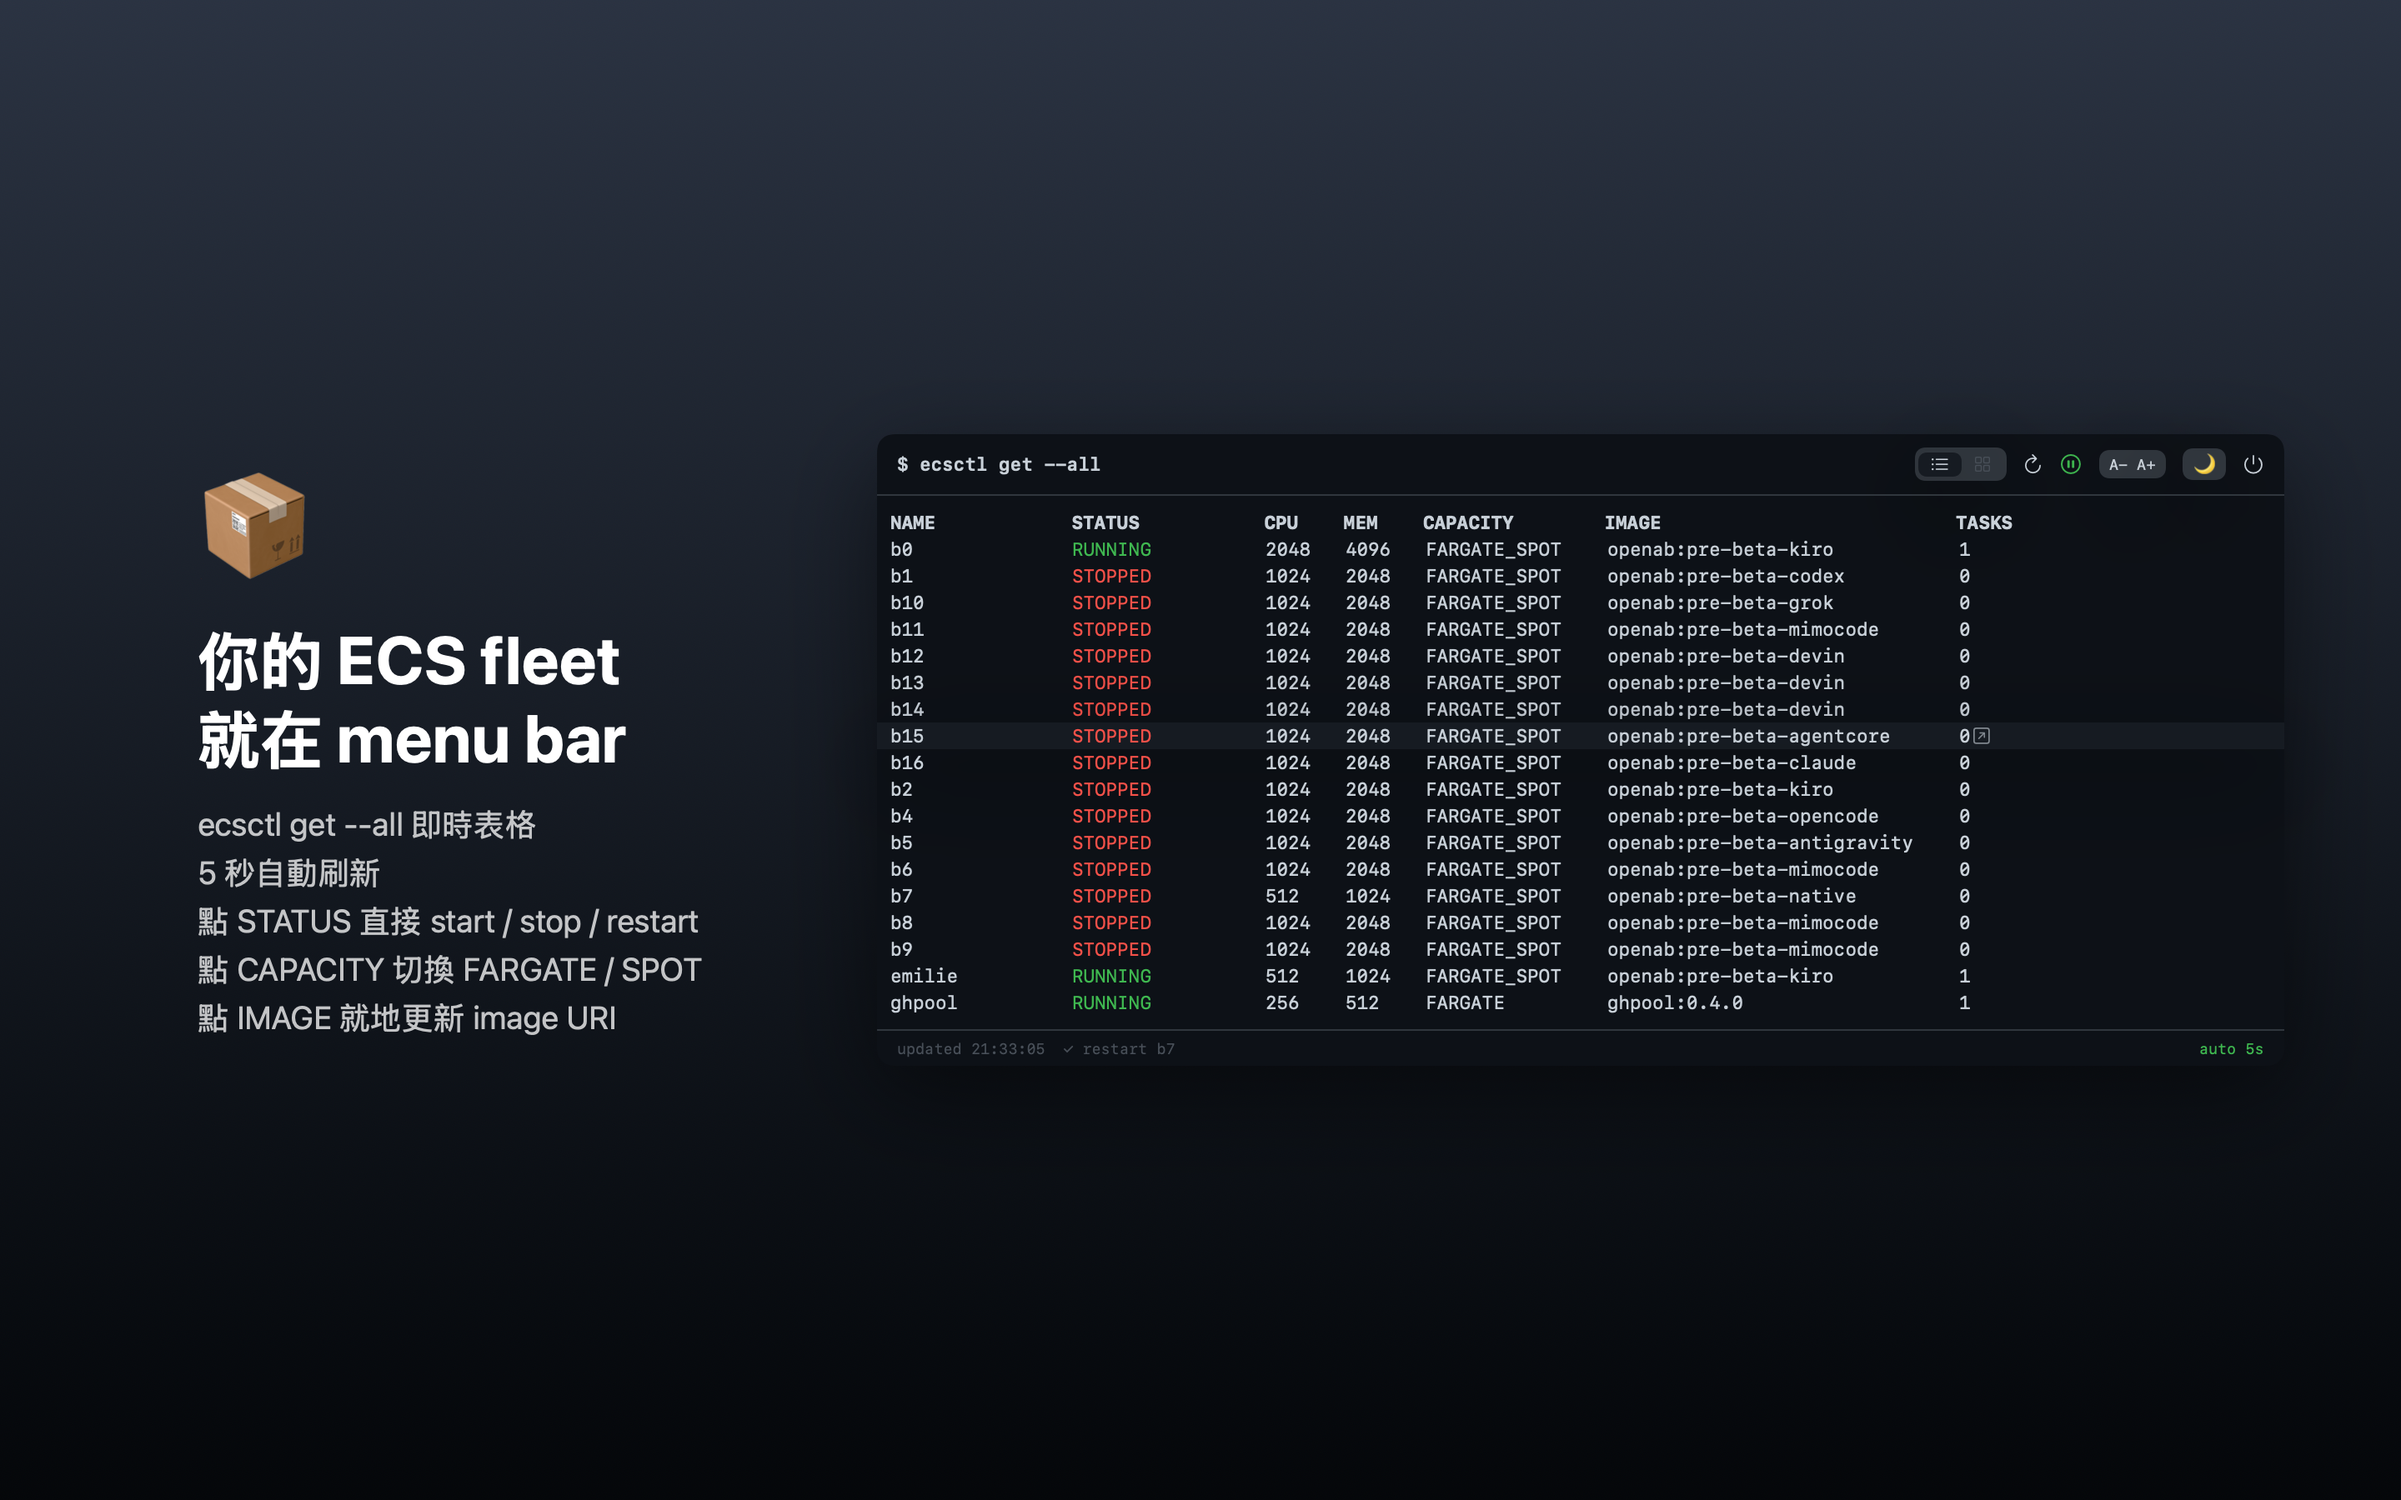
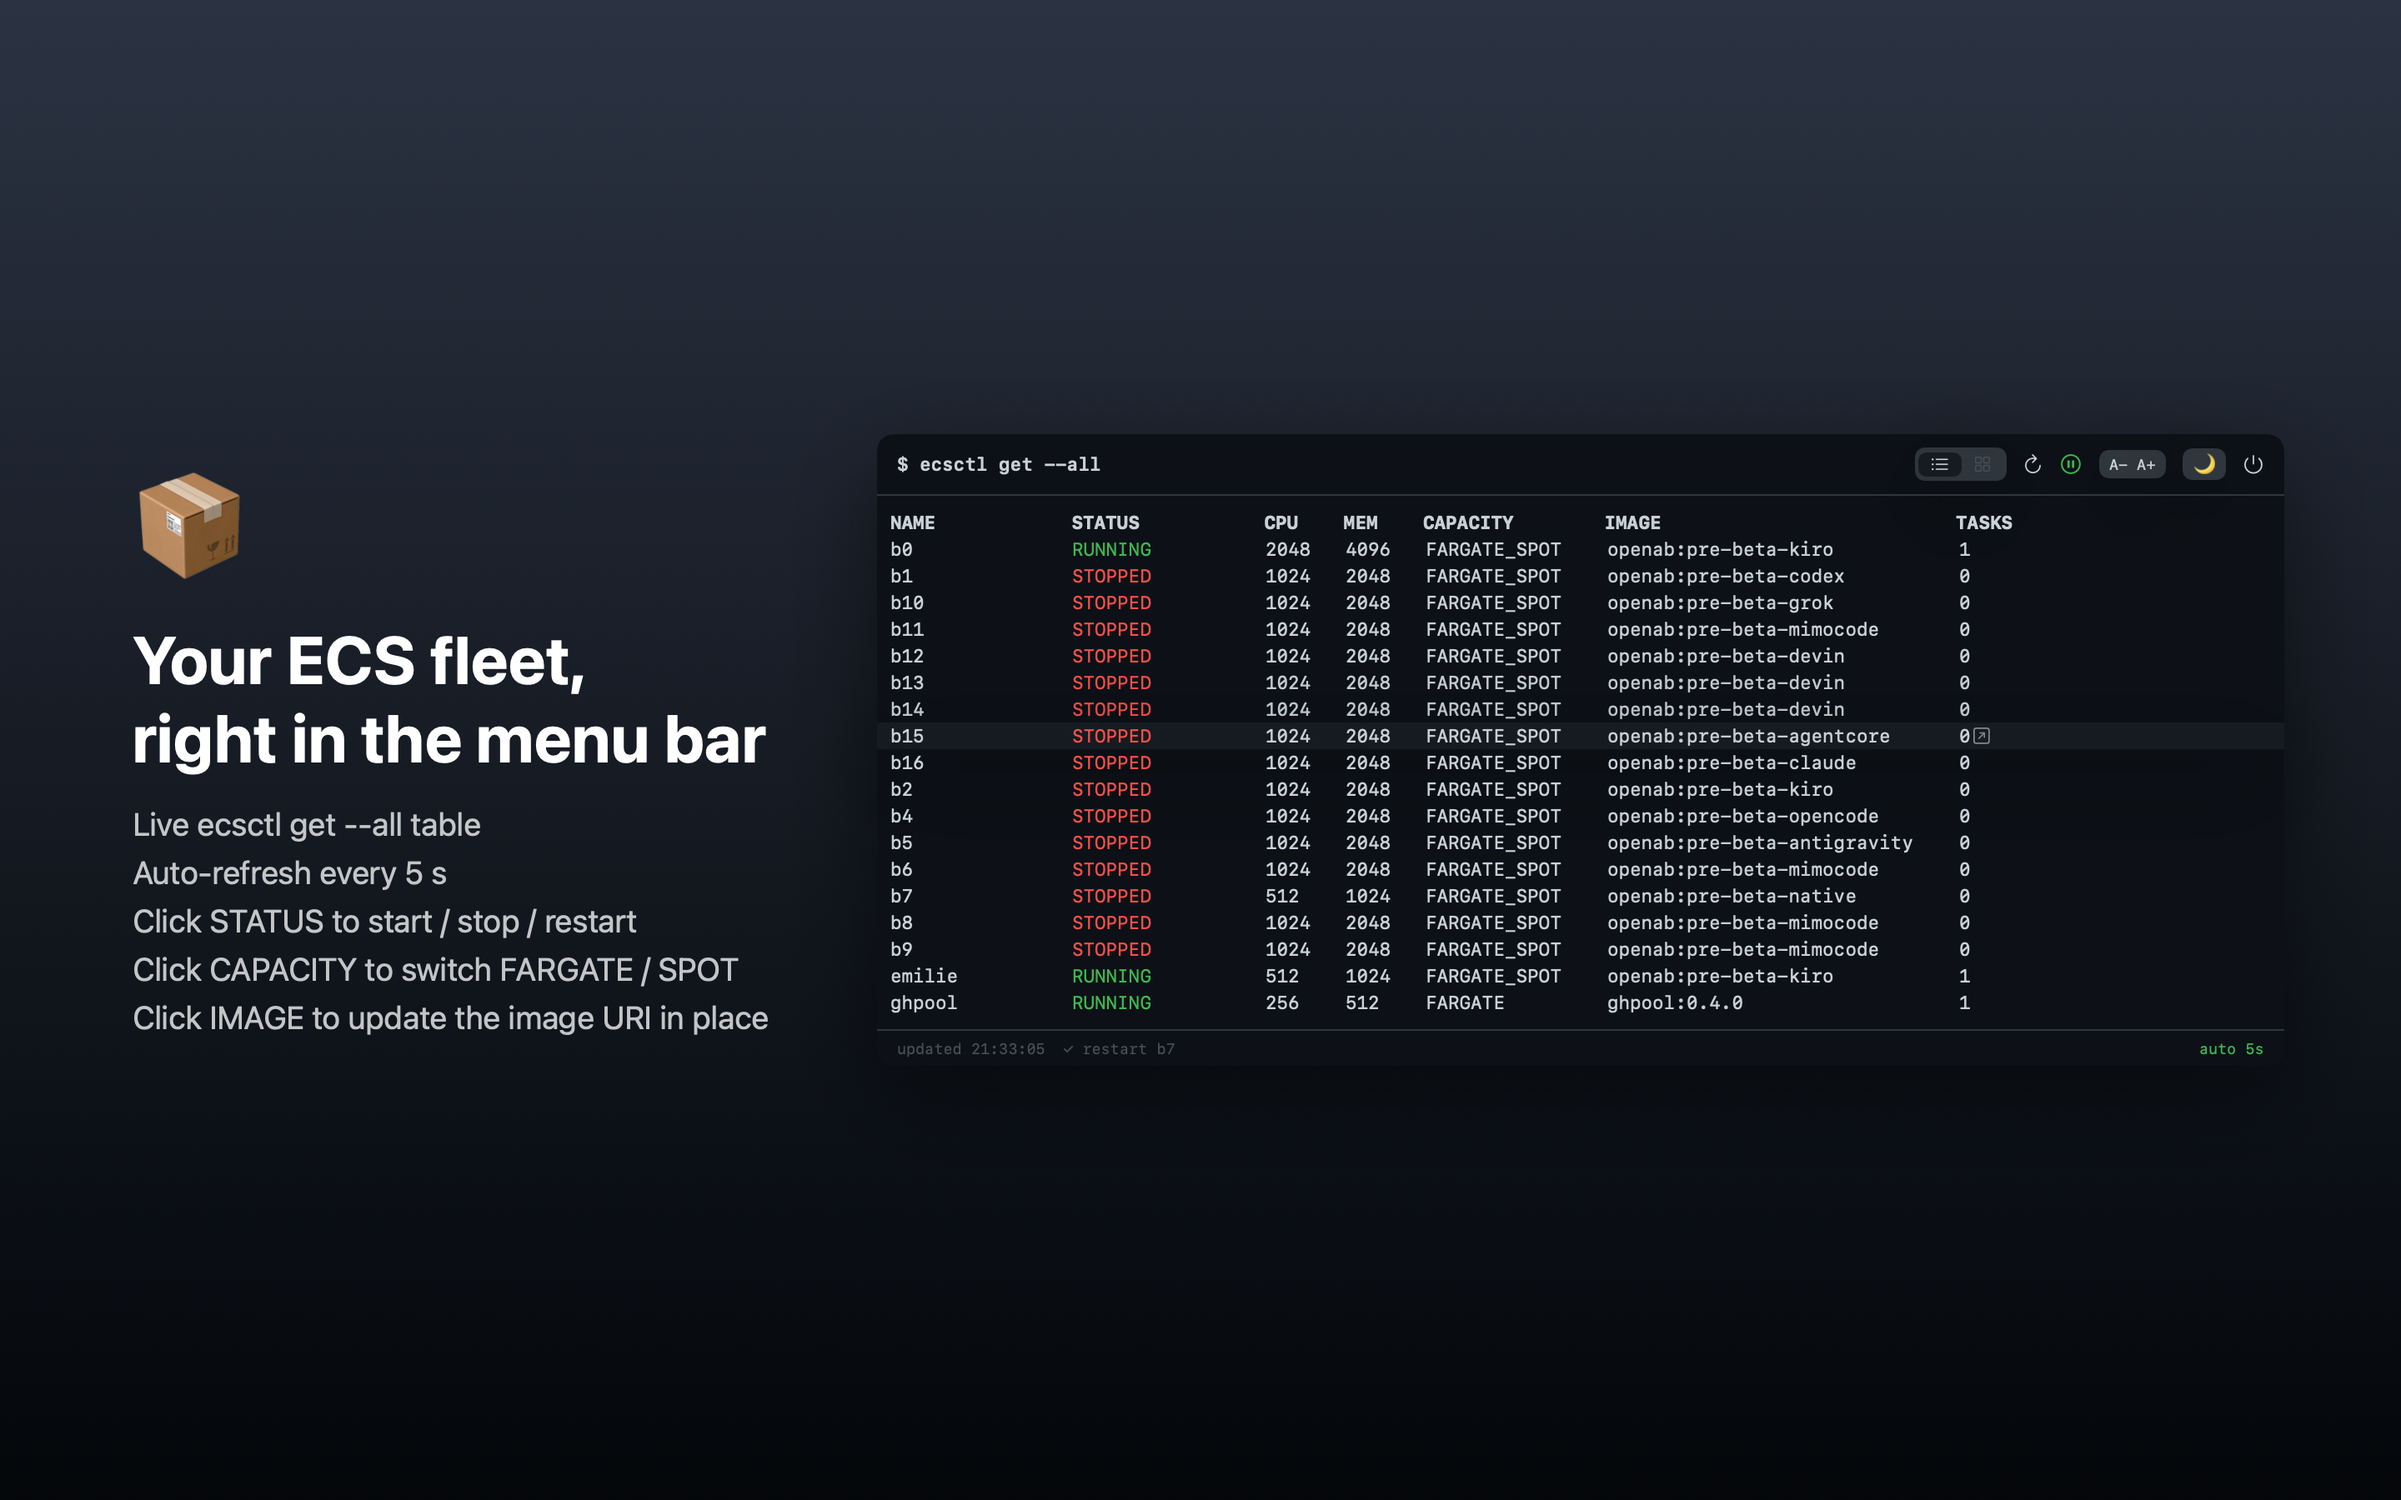
refactor: rename to ecsctl-bar everywhere; English screenshots

Changed region(s): [[0.0625, 0.3111, 0.3125, 0.6844]]

diff --git a/tools/genscreenshot.swift b/tools/genscreenshot.swift
@@ -315,13 +315,13 @@ func render(_ view: some View, to path: String) {
 
 await MainActor.run {
     render(Shot(p: githubdark,
-                headline: "你的 ECS fleet\n就在 menu bar",
-                sub: "ecsctl get --all 即時表格\n5 秒自動刷新\n點 STATUS 直接 start / stop / restart\n點 CAPACITY 切換 FARGATE / SPOT\n點 IMAGE 就地更新 image URI",
+                headline: "Your ECS fleet,\nright in the menu bar",
+                sub: "Live ecsctl get --all table\nAuto-refresh every 5 s\nClick STATUS to start / stop / restart\nClick CAPACITY to switch FARGATE / SPOT\nClick IMAGE to update the image URI in place",
                 window: ServicesShot(header: header, rows: rows, p: githubdark, highlightRow: 7)),
            to: "\(outDir)/shot1-services.png")
     render(Shot(p: bluedolphin,
-                headline: "Alias groups\n一鍵批次操作",
-                sub: "讀取 ~/.ecsctl/config.toml 的 [groups]\n即時彙總 RUNNING 狀態\nhover 出現 ▶ start / ■ stop\n批次停止需二次確認",
+                headline: "Alias groups,\nbulk operations",
+                sub: "Reads [groups] from ~/.ecsctl/config.toml\nLive aggregate RUNNING status\nHover for ▶ start / ■ stop\nBulk stop requires confirmation",
                 window: GroupsShot(groups: groups, running: running, p: bluedolphin, hoverIndex: 1)),
            to: "\(outDir)/shot2-groups.png")
 }

diff --git a/README.md b/README.md
@@ -1,4 +1,4 @@
-# ecsctl Bar
+# ecsctl-bar
 
 macOS menu bar app for [ecsctl](https://github.com/oablab/ecsctl) — live `ecsctl get --all` in your menu bar, with click-to-operate controls for the ECS Fargate fleet.
 
@@ -41,8 +41,8 @@ macOS menu bar app for [ecsctl](https://github.com/oablab/ecsctl) — live `ecsc
 
 ```bash
 ./build.sh
-cp -R "ecsctl Bar.app" /Applications/
-open "/Applications/ecsctl Bar.app"
+cp -R "ecsctl-bar.app" /Applications/
+open "/Applications/ecsctl-bar.app"
 ```
 
 The app is ad-hoc signed — fine for personal use, needs Developer ID + notarization for distribution.
